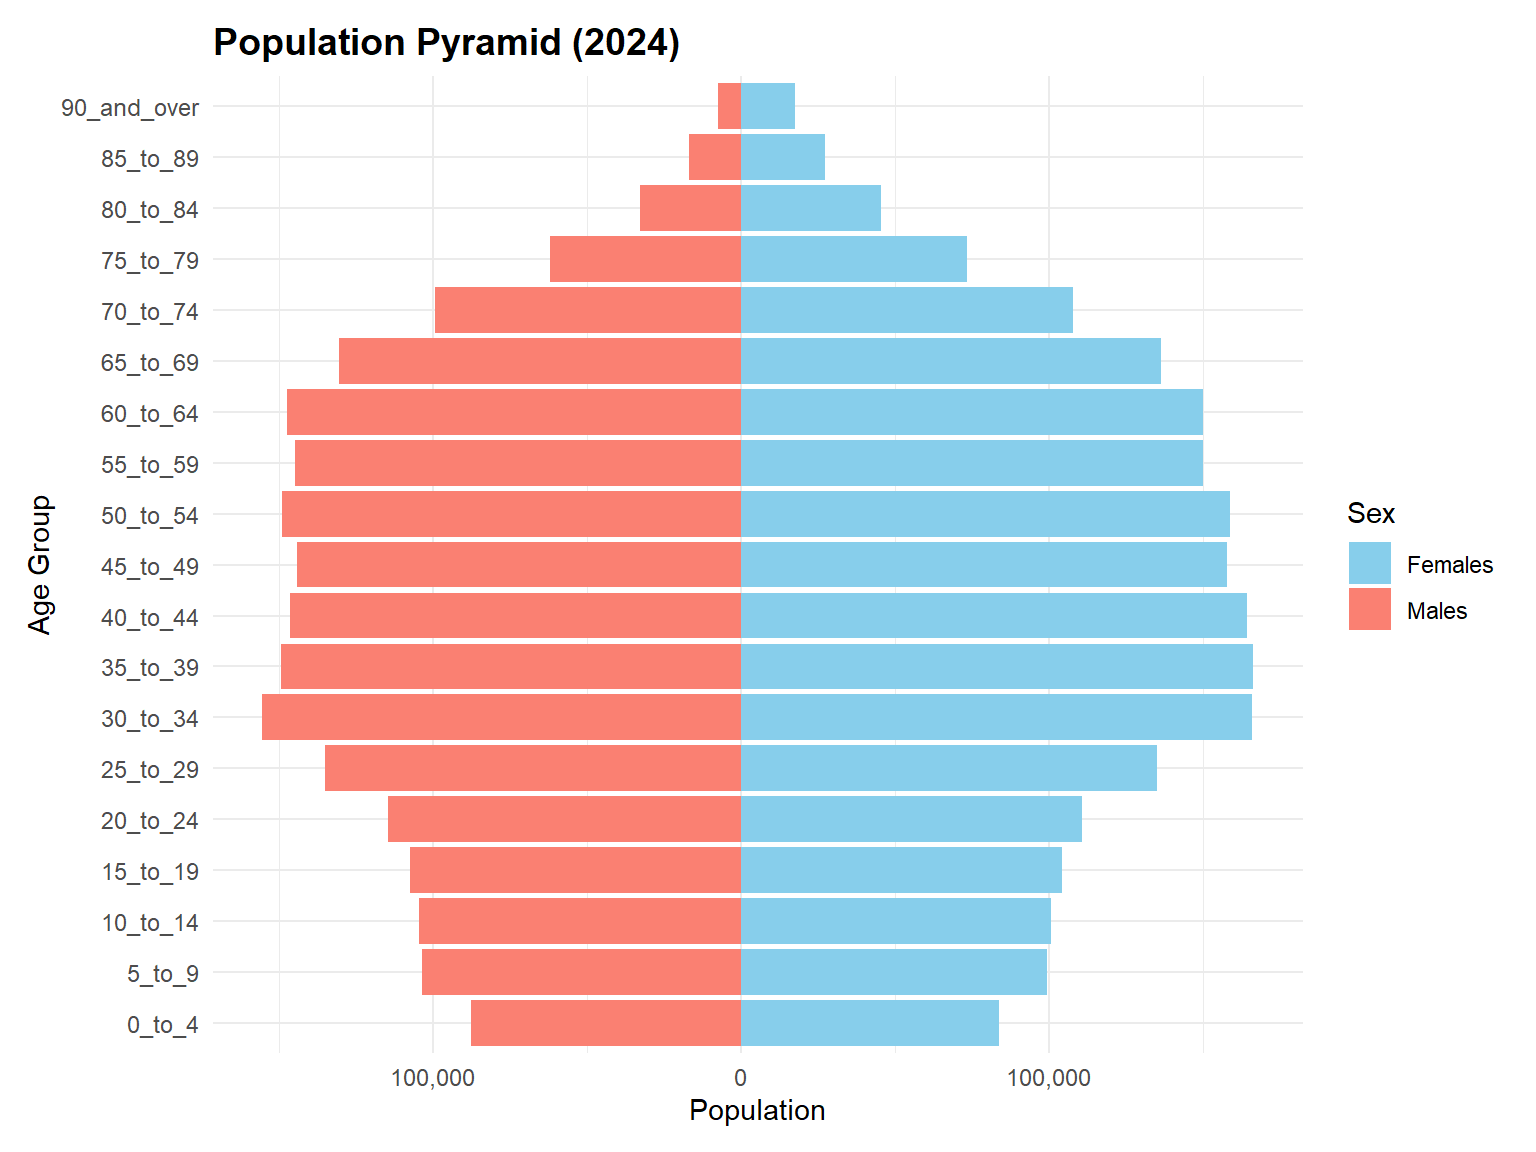
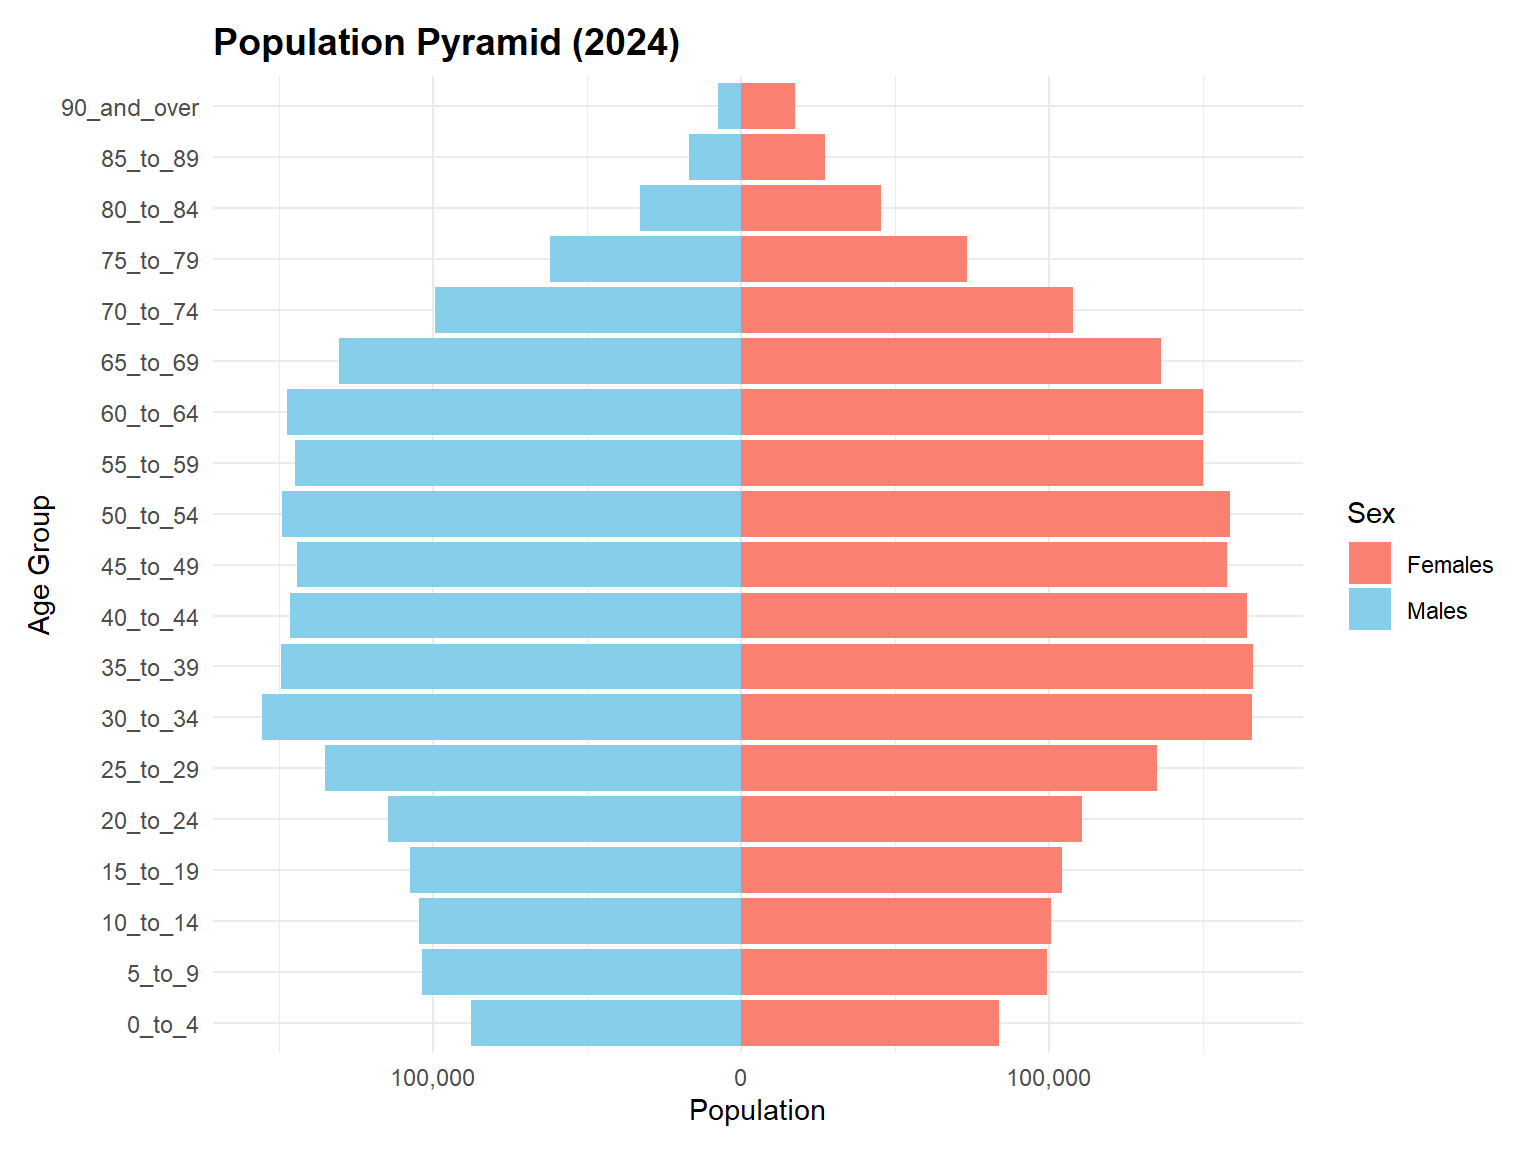
Final TOE1B commit

diff --git a/_site/Take-home_Ex/Take-home_Ex01b/Take-home_Ex01b.html b/_site/Take-home_Ex/Take-home_Ex01b/Take-home_Ex01b.html
@@ -547,7 +547,7 @@ $ Time &lt;int&gt; 2024, 2024, 2024, 2024, 2024, 2024, 2024, 2024, 2024, 2024, 2
 <span id="cb16-3"><a href="#cb16-3" aria-hidden="true" tabindex="-1"></a>  <span class="fu">coord_flip</span>() <span class="sc">+</span></span>
 <span id="cb16-4"><a href="#cb16-4" aria-hidden="true" tabindex="-1"></a>  <span class="fu">labs</span>(<span class="at">title =</span> <span class="st">"Population Pyramid (2024)"</span>, <span class="at">x =</span> <span class="st">"Age Group"</span>, <span class="at">y =</span> <span class="st">"Population"</span>) <span class="sc">+</span></span>
 <span id="cb16-5"><a href="#cb16-5" aria-hidden="true" tabindex="-1"></a>  <span class="fu">scale_y_continuous</span>(<span class="at">labels =</span> <span class="cf">function</span>(x) <span class="fu">comma</span>(<span class="fu">abs</span>(x))) <span class="sc">+</span></span>
-<span id="cb16-6"><a href="#cb16-6" aria-hidden="true" tabindex="-1"></a>  <span class="fu">scale_fill_manual</span>(<span class="at">values =</span> <span class="fu">c</span>(<span class="st">"skyblue"</span>, <span class="st">"salmon"</span>)) <span class="sc">+</span></span>
+<span id="cb16-6"><a href="#cb16-6" aria-hidden="true" tabindex="-1"></a>  <span class="fu">scale_fill_manual</span>(<span class="at">values =</span> <span class="fu">c</span>(<span class="st">"Males"</span> <span class="ot">=</span> <span class="st">"skyblue"</span>, <span class="st">"Females"</span> <span class="ot">=</span> <span class="st">"salmon"</span>)) <span class="sc">+</span></span>
 <span id="cb16-7"><a href="#cb16-7" aria-hidden="true" tabindex="-1"></a>  <span class="fu">theme_minimal</span>() <span class="sc">+</span></span>
 <span id="cb16-8"><a href="#cb16-8" aria-hidden="true" tabindex="-1"></a>  <span class="fu">theme</span>(</span>
 <span id="cb16-9"><a href="#cb16-9" aria-hidden="true" tabindex="-1"></a>    <span class="at">axis.text.y =</span> <span class="fu">element_text</span>(<span class="at">size =</span> <span class="dv">9</span>),</span>
@@ -624,7 +624,7 @@ $ Time &lt;int&gt; 2024, 2024, 2024, 2024, 2024, 2024, 2024, 2024, 2024, 2024, 2
 <span id="cb20-4"><a href="#cb20-4" aria-hidden="true" tabindex="-1"></a></span>
 <span id="cb20-5"><a href="#cb20-5" aria-hidden="true" tabindex="-1"></a><span class="fu">ggplot</span>(Resident_FA_summary, <span class="fu">aes</span>(<span class="at">x =</span> FA, <span class="at">y =</span> TotalPop)) <span class="sc">+</span></span>
 <span id="cb20-6"><a href="#cb20-6" aria-hidden="true" tabindex="-1"></a>  <span class="fu">geom_col</span>(<span class="at">fill =</span> <span class="st">"lightgreen"</span>) <span class="sc">+</span></span>
-<span id="cb20-7"><a href="#cb20-7" aria-hidden="true" tabindex="-1"></a>  <span class="fu">labs</span>(<span class="at">title =</span> <span class="st">"Total Population by FA Band"</span>, <span class="at">x =</span> <span class="st">"FA Band"</span>, <span class="at">y =</span> <span class="st">"Total Population"</span>) <span class="sc">+</span></span>
+<span id="cb20-7"><a href="#cb20-7" aria-hidden="true" tabindex="-1"></a>  <span class="fu">labs</span>(<span class="at">title =</span> <span class="st">"Total Population by Functional Age (FA) Band"</span>, <span class="at">x =</span> <span class="st">"FA Band"</span>, <span class="at">y =</span> <span class="st">"Total Population"</span>) <span class="sc">+</span></span>
 <span id="cb20-8"><a href="#cb20-8" aria-hidden="true" tabindex="-1"></a>  <span class="fu">scale_y_continuous</span>(<span class="at">labels =</span> comma) <span class="sc">+</span></span>
 <span id="cb20-9"><a href="#cb20-9" aria-hidden="true" tabindex="-1"></a>  <span class="fu">theme_minimal</span>()</span></code><button title="Copy to Clipboard" class="code-copy-button"><i class="bi"></i></button></pre></div>
 <div class="cell-output-display">
